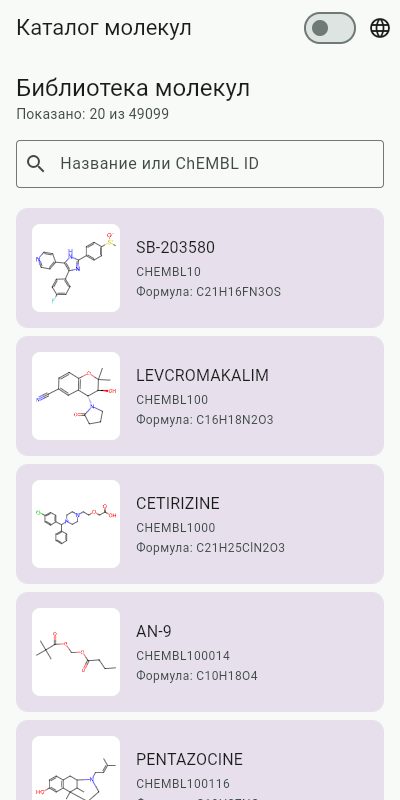
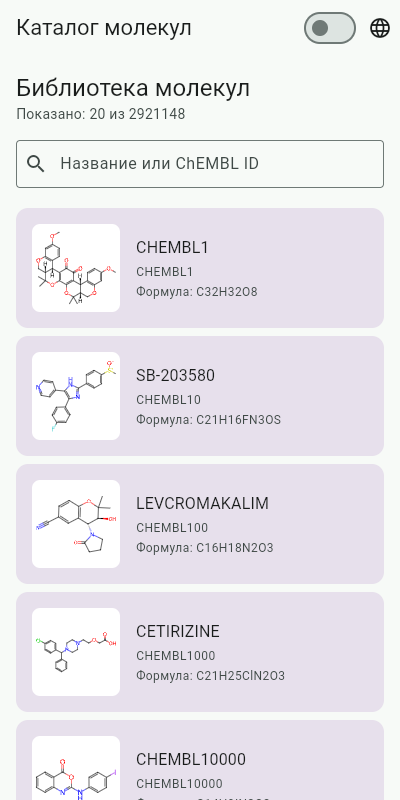
docs(lab3): document the complete catalog and compact responses

diff --git a/README.md b/README.md
@@ -11,6 +11,7 @@
 - Сообщение «Ничего не найдено» для пустого результата серверного поиска.
 - Подгрузка следующих страниц по 20 записей при прокрутке, без повторов.
 - Счётчик загруженных записей и общего количества совпадений.
+- Просмотр всего каталога ChEMBL, включая записи без названия: они показаны по ID.
 - Возврат с сохранением запроса, результатов и позиции списка.
 - SVG-схемы молекул из ChEMBL: миниатюры в списке и крупная схема в детали.
 - Светлая и тёмная темы, русский и английский интерфейс.
@@ -60,11 +61,16 @@ DTO генерируются через
 ## Данные и ограничения
 
 Молекулы загружаются страницами по 20 записей, упорядоченными по ChEMBL ID.
+Для списка запрашиваются только ID, основное название, молекулярные свойства
+и тип структуры (`structure_type`); molfile, InChI и остальные полные данные
+загружаются только отдельным запросом детали. Наличие изображения в списке
+определяется по типу структуры, сама SVG-схема запрашивается отдельно.
 При прокрутке добавляется следующая страница; уже загруженные записи сохраняются
 при ошибке подгрузки, а запрос можно повторить кнопкой в конце списка.
-Каталог по умолчанию показывает записи, у которых `pref_name` отличается от `null`.
-Поиск выполняется на сервере по всем записям
-с названием; точный ChEMBL ID позволяет найти и запись без названия.
+Каталог показывает все записи без отбора по наличию названия.
+Вместо отсутствующего или пустого названия отображается ChEMBL ID.
+Поиск по части основного названия выполняется на сервере; запись без названия
+можно найти по точному ChEMBL ID или при просмотре каталога.
 Синонимы и русские варианты названий в поиске не учитываются.
 При вводе запроса предыдущий ответ не может заменить результат нового поиска.
 Деталь молекулы получает данные отдельным запросом по ID. Отсутствующие формула

diff --git a/docs/lab-3-pr.md b/docs/lab-3-pr.md
@@ -18,6 +18,9 @@
 - Добавлены серверный поиск по основному названию или точному ChEMBL ID,
   пустой результат поиска и подгрузка страниц по 20 записей без повторов.
   Ошибка следующей страницы сохраняет уже загруженный список.
+- Каталог включает записи без названия; для них заголовком служит ChEMBL ID.
+  Ответ списка ограничен ID, названием, свойствами и типом структуры через
+  `only`. Полные структуры и метаданные получает отдельный запрос детали.
 - Молекула и связанные механизмы загружаются параллельно; названия мишеней
   запрашиваются пакетами. Возврат со страницы до завершения запроса безопасен.
 - Моков в `lib/` нет; снимок из ЛР2 перенесён в `docs/reference`
@@ -34,6 +37,10 @@
 включая окно 640×300. Скриншоты сделаны в Web-версии.
 Для схем проверены узкое окно, тёмная тема, запись без структуры и
 недоступный сервер изображений: ошибка картинки не скрывает свойства молекулы.
+После сокращения JSON проверены страницы 20 → 40 без повторов, поиск по
+названию и ID, пустой результат и открытие детали записи без названия.
+Автоподгрузка проверяет готовность размеров списка перед чтением позиции
+прокрутки, включая прямое открытие ссылки на деталь.
 
 ## Скриншоты
 
@@ -51,9 +58,8 @@
 
 ## Известные проблемы
 
-- Каталог по умолчанию показывает записи с `pref_name`. Точный ChEMBL ID
-  позволяет открыть и запись без названия. Поиск по синонимам, русским
-  названиям и химической структуре не реализован.
+- Поиск по синонимам, русским названиям и химической структуре не реализован.
+  Записи без названия находятся по точному ChEMBL ID и доступны в общем каталоге.
 - Механизмы ищутся по ID выбранной записи в полях `molecule_chembl_id`
   и `parent_molecule_chembl_id`. Родитель из иерархии солевой формы отдельно
   не определяется, поэтому его механизмы могут не отображаться.
